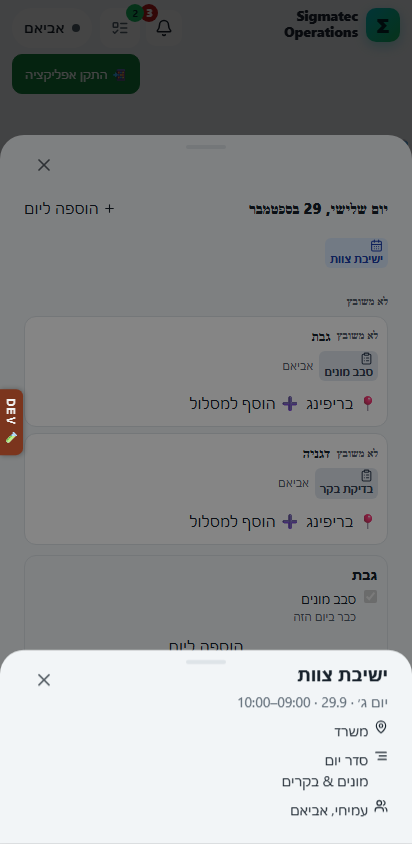
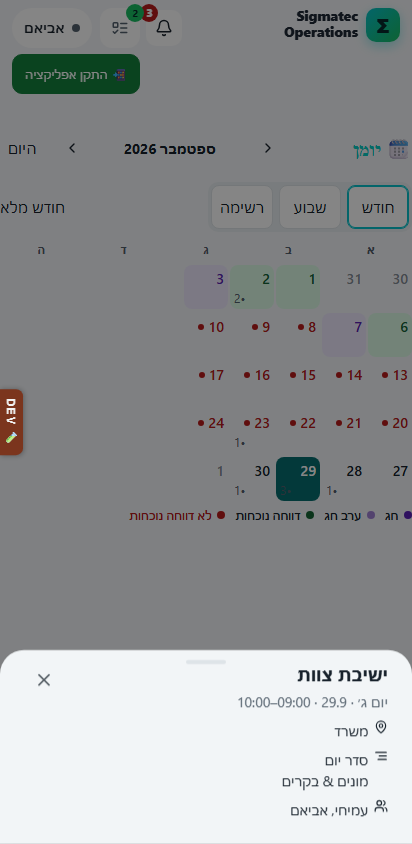
fix(calendar-ui): designer round — one sheet at a time, dedupe wording
Opening a visit/event on the PHONE opened a second Radix Sheet stacked on
top of the day sheet (cal-sheet) — two overlays, two ✕ buttons, the day
sheet looking "empty" underneath. openVisitOne/openEventOne now close
sheetDay the moment a visit/event sheet takes over, so only one sheet is
ever mounted; verified by opening the day sheet first, then the event/visit
sheet, and asserting cal-sheet is hidden while the new one is open (and gone
entirely, no leftover [data-state=open], once closed).

An unplaced kibbutz Block's pick button said "הוספה ליום", the exact same
text as the header's own ➕ button, which opens an unrelated sheet (schedule/
absence/new-task) — renamed to "הוספה למסלול", matching what
PlaceSearch/RoutePlan already call the same action elsewhere.

Evidence recaptured (qa/evidence/C-U/calendar-{visit,event}-sheet__{360,412}__
{light,dark}.png) — dark forced via storage theme, single-sheet behavior
confirmed at every combination.

diff --git a/app/src/islands/Calendar.tsx b/app/src/islands/Calendar.tsx
@@ -602,7 +602,11 @@ function Block({
           type="button" className="ucal-mini" data-block-pick={b.kibbutz}
           disabled={busy || isNoopPick(preview)} onClick={() => onPick(b, ticked)}
         >
-          {b.placed ? 'קביעת המשימות ליום' : 'הוספה ליום'}
+          {/* Designer round · C-U: this button both places the stop AND dates the ticked tasks —
+              "הוספה ליום" duplicated the header's own ➕ button, which opens a DIFFERENT sheet
+              (schedule/absence/new-task). "הוספה למסלול" names what actually happens here,
+              matching the wording PlaceSearch/RoutePlan already use for placing a kibbutz. */}
+          {b.placed ? 'קביעת המשימות ליום' : 'הוספה למסלול'}
         </button>
       ) : null}
     </div>
@@ -1329,6 +1333,11 @@ function CalendarIsland() {
   // close leaves no overlay behind — Radix unmounts the portal with `open={false}`).
   const [openVisit, setOpenVisit] = React.useState<VisitRow | null>(null);
   const [openEventId, setOpenEventId] = React.useState('');
+  // Designer round: on the phone, the day itself is a Sheet (`cal-sheet`) — opening VisitSheet/
+  // EventSheet as a SECOND Radix dialog on top of it stacked two overlays and two ✕ buttons.
+  // One sheet at a time: close the day sheet the moment a visit/event sheet takes over.
+  const openVisitOne = React.useCallback((v: VisitRow) => { setSheetDay(''); setOpenVisit(v); }, []);
+  const openEventOne = React.useCallback((id: string) => { setSheetDay(''); setOpenEventId(id); }, []);
   const [scheduleDay, setScheduleDay] = React.useState('');
   const [absenceDay, setAbsenceDay] = React.useState('');
   // 📅 שבץ from a רשימה row: the TASK is known and the day is not — the opposite of the day
@@ -1767,8 +1776,8 @@ function CalendarIsland() {
                 onPick={(b, ticked) => pick.mutate(pickBlock(b, ticked, openDate, order))}
                 blockBusy={pick.isPending}
                 peer={owners.length > 1}
-                onVisitOpen={setOpenVisit}
-                onEventOpen={setOpenEventId}
+                onVisitOpen={openVisitOne}
+                onEventOpen={openEventOne}
               />
             ) : (
               <p className="text-[13px] text-muted-foreground">בוחרים יום בלוח כדי לראות מה יש בו.</p>
@@ -1812,8 +1821,8 @@ function CalendarIsland() {
                   onPick={(b, ticked) => pick.mutate(pickBlock(b, ticked, openDate, order))}
                   blockBusy={pick.isPending}
                   peer={owners.length > 1}
-                  onVisitOpen={setOpenVisit}
-                  onEventOpen={setOpenEventId}
+                  onVisitOpen={openVisitOne}
+                  onEventOpen={openEventOne}
                 />
               </motion.div>
             ) : null}
